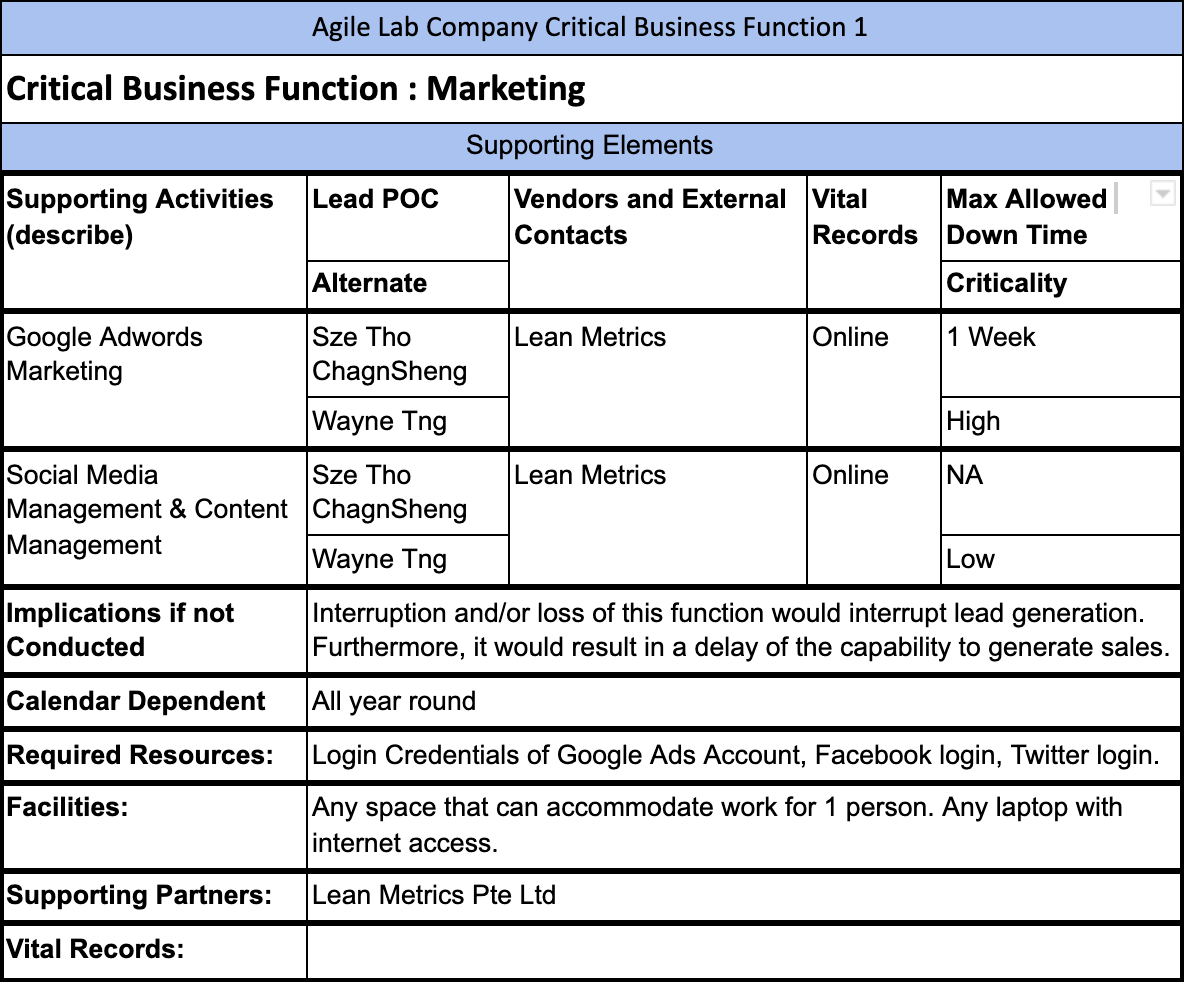
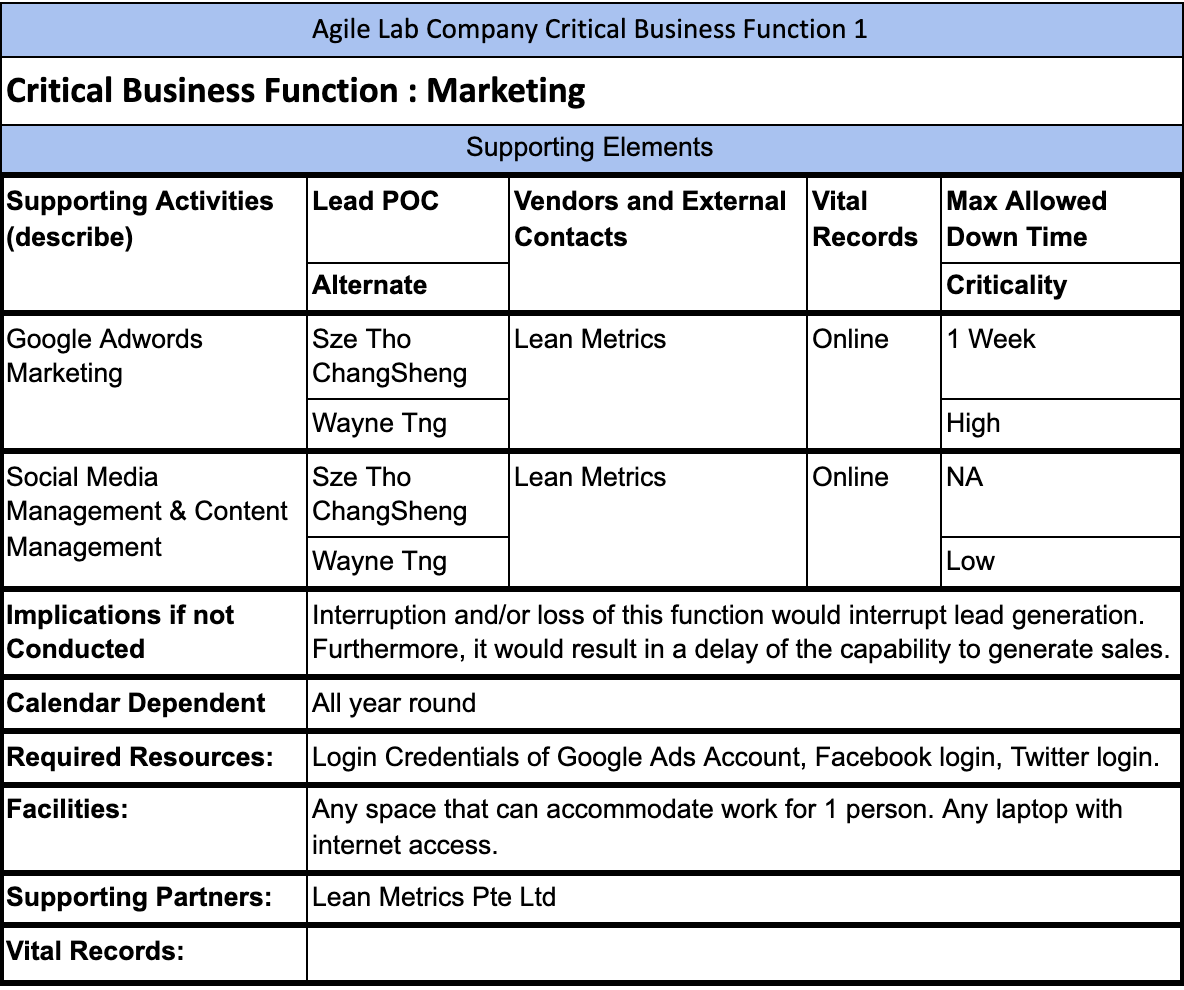
fix(bcp): Updated BCP

diff --git a/BCP/README.md b/BCP/README.md
@@ -145,10 +145,6 @@ If an event occurs outside normal business hours that renders a facility uninhab
 
 Upon activation of the Business Continuity Plan, the Business Owner or designee will be responsible for notifying the alternate site, if appropriate, of their impending arrival.
 
-### Relocation Strategy
-
-Agile Lab adopts a teleworking strategy even during normal peace times. However, in the event your current workstation/ is being disrupted,
-
 ## Internal Communication Procedures
 
 ### Staff Accountability
@@ -174,7 +170,7 @@ Agile Lab uses teleworking as our alternate site strategy. Agile Lab employees w
 
 ## Orders of succession and delegations of authority
 
-Orders of succession are pre prepared to provide clarity of senior leadership roles in the event that individuals in these roles, whether they will be decision-making or management roles are unavailable. A delegation authority provides successors with the legal authorization to act on behalf of critical positions within the organaisation for specific purposes and duties.
+Orders of succession are pre prepared to provide clarity of senior leadership roles in the event that individuals in these roles, whether they will be decision-making or management roles are unavailable. A delegation authority provides successors with the legal authorization to act on behalf of critical positions within the organisation for specific purposes and duties.
 
 | Position to be Succeeded | Successors | Delegated Authorities | Activation and Termination Triggers |
 | --- | --- | --- | --- |
